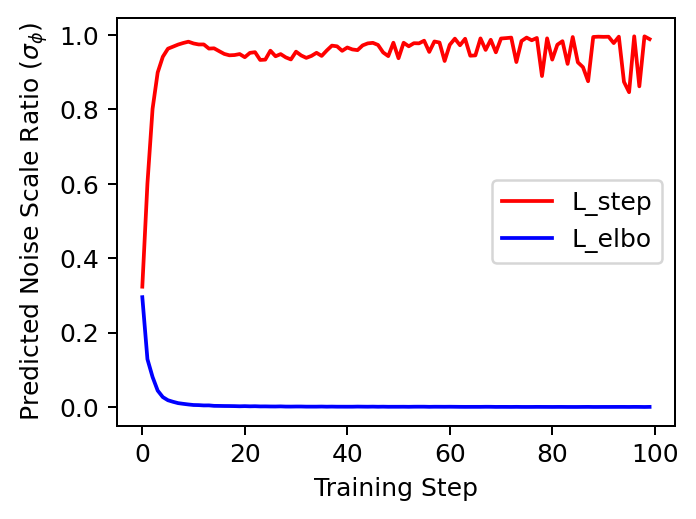
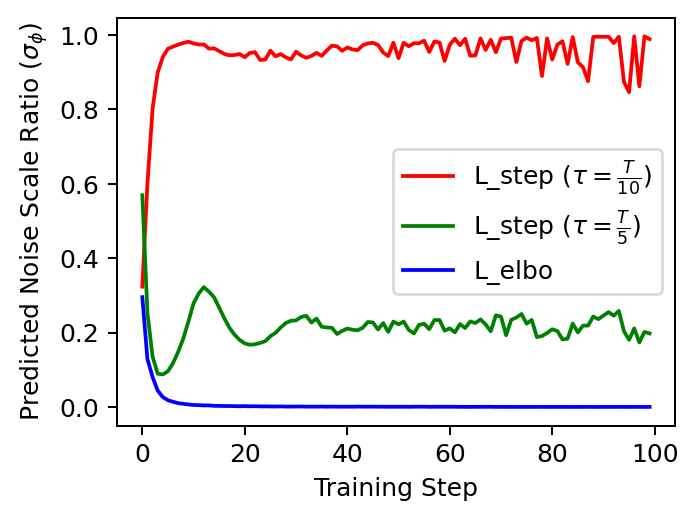
add tau to plot

diff --git a/index.html b/index.html
@@ -10,7 +10,7 @@ href="https://maxcdn.bootstrapcdn.com/font-awesome/4.4.0/css/font-awesome.min.cs
     MathJax.Hub.Config({
       jax: ["input/TeX", "output/HTML-CSS"],
       extensions: ["tex2jax.js"],
-      "HTML-CSS": { preferredFont: "TeX", availableFonts: ["STIX","TeX"], scale: 77},
+      "HTML-CSS": { preferredFont: "TeX", availableFonts: ["STIX","TeX"], scale: 86},
       tex2jax: { inlineMath: [ ["$", "$"], ["\\(","\\)"] ], displayMath: [ ["$$","$$"], ["\\[", "\\]"] ], processEscapes: true, ignoreClass: "tex2jax_ignore|dno" },
       TeX: { noUndefined: { attributes: { mathcolor: "red", mathbackground: "#FFEEEE", mathsize: "50%" } } },
       messageStyle: "none"
@@ -280,7 +280,7 @@ href="https://maxcdn.bootstrapcdn.com/font-awesome/4.4.0/css/font-awesome.min.cs
         <tbody>
           <tr>
             <td width="50%" align="justify" valign="top" style="padding-left: 5%;padding-right: 5%;">
-               The above diagram compares the scheduling networks' outputs when training with $\mathcal{L}^{(t)}_\text{step}$ and $\mathcal{L}^{(t)}_\text{elbo}$, respectively. The plot shows that when using $\mathcal{L}^{(t)}_\text{elbo}$ to learn $\phi$, the network output rapidly collapsed to zero within several training steps; whereas, the network trained with $\mathcal{L}^{(t)}_\text{step}$ produced outputs fluctuating around 1. The fluctuation is a desirable property indicating that the network can predict a $t$-dependent noise scale, where $t$ is a random time step drawn from an uniform distribution.
+               The above diagram compares the scheduling networks' outputs when training with $\mathcal{L}^{(t)}_\text{step}$ and $\mathcal{L}^{(t)}_\text{elbo}$, respectively. The plot shows that when using $\mathcal{L}^{(t)}_\text{elbo}$ to learn $\phi$, the network output rapidly collapsed to zero within several training steps; whereas, the network trained with $\mathcal{L}^{(t)}_\text{step}$ produced fluctuating values depending on $\tau$ (lower outputs for larger $\tau$). The fluctuation is a desirable property indicating that the network can predict a $t$-dependent noise scale, where $t$ is a random time step drawn at each training step from an uniform distribution.
             </td>
             <td width="50%" align="justify" valign="top" style="padding-left: 8%;padding-right: 2%;">
                 The above diagram shows the result of another experiment that validates the inequality of lower bounds: $\mathcal{F}^{(t)}_\text{bddm} \geq \mathcal{F}^{(t)}_\text{elbo}(\theta^*)$ for different time step $t$. We dropped their common entropy term $\mathbb{E}\left[\log p_\theta(\mathbf{x}_0|\mathbf{x}_1)\right] < 0$ to mainly compare the KL terms. Therefore, the plotted lower bound values might be positive. Each value is provided with 95% confidence intervals.
